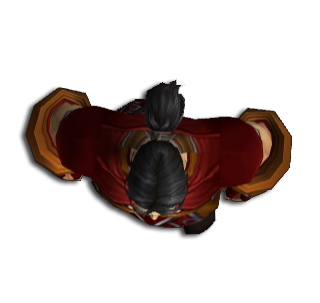
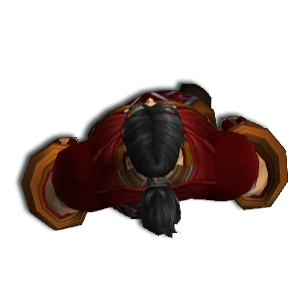
* Quaternion between vector, handled invalid case * Added Quaternion rotate towards another Quaternion * Smoother camera transition * Smooth player turning

Changed region(s): [[0.0297, 0.2376, 0.9505, 0.802]]

diff --git a/src/main.cpp b/src/main.cpp
@@ -418,6 +418,8 @@ struct Editor {
 static Editor editor;
 
 Texture2d_Handle debug_load_texture(const char * filepath) {
+	stbi_set_flip_vertically_on_load(1);
+
 	int w, h, n;
 	unsigned char *pixels = stbi_load(filepath, &w, &h, &n, 4);
 	auto texture = gfx_create_texture2d(u32(w), u32(h), u32(n), Data_Format_RGBA8_UNORM_SRGB, (const u8 **)&pixels, Buffer_Usage_IMMUTABLE, 1);
@@ -427,14 +429,15 @@ Texture2d_Handle debug_load_texture(const char * filepath) {
 
 struct Player {
 	Vec3 position = vec3(0, 0, 1);
-	Vec3 direction = vec3(0, -1, 0);
-	Vec3 direction_target = direction;
+	Quat face_direction = quat_identity();
+	Quat face_direction_target = face_direction;
 
 	r32 movement_force = 500;
 
 	r32 mass = 50;
 	r32 drag = 3;
 	r32 friction_coefficient = 0.5f;
+	r32 turn_velocity = 2.5f;
 	Vec3 velocity = vec3(0);
 	Vec3 force = vec3(0);
 };
@@ -471,11 +474,12 @@ void editor_update(Audio_Mixer *mixer, Player *player) {
 
 	ImGui::Text("Player");
 	ImGui::DragFloat3("Position: (%.3f, %.3f, %.3f)", player->position.m);
-	ImGui::Text("Direction: (%.3f, %.3f, %.3f)", player->direction.x, player->direction.y, player->direction.z);
+	ImGui::Text("Face Direction: (%.3f, %.3f, %.3f)", player->face_direction.x, player->face_direction.y, player->face_direction.z);
 	ImGui::DragFloat("Mass: %.3f", &player->mass, 0.1f);
 	ImGui::DragFloat("Friction: %.3f", &player->friction_coefficient, 0.01f, 0.0f, 1.0f);
 	ImGui::DragFloat("Drag: %.3f", &player->drag, 0.01f);
 	ImGui::DragFloat("Movement Force: %.3f", &player->movement_force, 0.1f);
+	ImGui::DragFloat("Turn Speed: %.3f", &player->turn_velocity, 0.01f);
 	ImGui::Text("Velocity: (%.3f, %.3f, %.3f)", player->velocity.x, player->velocity.y, player->velocity.z);
 	ImGui::Text("Force: (%.3f, %.3f, %.3f)", player->force.x, player->force.y, player->force.z);
 
@@ -673,9 +677,7 @@ int system_main() {
 		Vec2 movement_direction = vec2_normalize_check(vec2(controller.x, controller.y));
 		r32 movement_magnitude = vec2_length(movement_direction);
 		if (movement_magnitude) {
-			player.direction_target = vec3(movement_direction, 0);
-			//r32 angle = vec3_signed_angle_between(player.direction, vec3(movement_direction, 0), vec3(0, 0, 1));
-			//player.target_direction = vec3_normalize(quat_rotate(quat_angle_axis(vec3(0, 0, 1), angle), player.direction));
+			player.face_direction_target = quat_between(vec3(0, 1, 0), vec3(movement_direction, 0));
 		}
 
 		const float gravity = 10.f;
@@ -686,11 +688,10 @@ int system_main() {
 
 			if (state == Time_State_RESUME) {
 
-				r32 angle = vec3_signed_angle_between(player.direction, player.direction_target, vec3(0, 0, 1));
-				player.direction = vec3_normalize(quat_rotate(quat_angle_axis(vec3(0, 0, 1), angle), player.direction));
+				player.face_direction = rotate_toward(player.face_direction, player.face_direction_target, player.turn_velocity * dt);
 
 				float effective_friction_coeff = ground_friction_coefficient * player.friction_coefficient;
-				player.force.xy += (player.movement_force * movement_magnitude) * player.direction.xy;
+				player.force += (player.movement_force * movement_magnitude) * vec3(movement_direction, 0);
 
 				r32 frictional_force_mag = effective_friction_coeff * gravity * player.mass;
 				r32 force_mag = vec3_length(player.force);
@@ -713,6 +714,10 @@ int system_main() {
 				player.velocity += dt * acceleration;
 				player.velocity *= powf(0.5f, player.drag * dt);
 				player.position += dt * player.velocity;
+
+				Vec2 camera_player_offset = vec2(-0.5f);
+				camera.position.xy = lerp(camera.position.xy, player.position.xy - camera_player_offset, 1.0f - powf(1.0f - 0.9f, dt));
+				camera.distance = lerp(camera.distance, camera.distance_target, 1.0f - powf(1.0f - 0.9f, dt));
 
 #if 0
 
@@ -838,10 +843,6 @@ int system_main() {
 
 		ImGui_UpdateFrame(real_dt);
 
-		Vec2 camera_player_offset = vec2(-0.5f);
-		camera.position.xy = lerp(camera.position.xy, player.position.xy - camera_player_offset, 1.0f - powf(1.0f - 0.9f, game_dt));
-		camera.distance = lerp(camera.distance, camera.distance_target, 1.0f - powf(1.0f - 0.9f, game_dt));
-
 		r32 camera_zoom = 1.0f / powf(2.0f, camera.distance);
 
 		r32 thickness = 8.0f / (TOTAL_GRID_HORIZONTAL * TOTAL_GRID_VERTICAL);
@@ -855,16 +856,19 @@ int system_main() {
 		im_unbind_texture();
 		for (r32 x = -5; x < 5; ++x) {
 			for (r32 y = -5; y < 5; ++y) {
-				im_rect_centered_outline2d(vec3(x, y, 1), vec2(1), vec4(0, 0.3f, 0), 1.5f * thickness);
+				im_rect_centered(vec3(x, y, 1), vec2(1.1f), vec4(0, 0.3f, 0));
 				im_rect_centered(vec3(x, y, 1), vec2(1), vec4(0.1f, 0.9f, 0.2f));
 			}
 		}
 
-		im_bind_texture(player_sprite);
-		im_rect_centered_rotated(player.position, vec2(1), vec3_signed_angle_between(vec3(0, 1, 0), player.direction, vec3(0, 0, 1)), vec4(1));
-
-		im_unbind_texture();
 		im_rect_centered_outline2d(player.position, vec2(1), vec4(1, 1, 0), thickness);
+
+		r32 angle;
+		Vec3 axis;
+		quat_get_angle_axis(player.face_direction, &angle, &axis);
+
+		im_bind_texture(player_sprite);
+		im_rect_centered_rotated(player.position, vec2(1), axis.z * angle, vec4(1));
 
 		im_end();
 

diff --git a/src/lin_maths.cpp b/src/lin_maths.cpp
@@ -1050,7 +1050,12 @@ Vec3 quat_get_euler_angles(Quat q) {
 Quat quat_between(Vec3 from, Vec3 to) {
 	Quat q;
 	q.v4.w   = 1.0f + vec3_dot(from, to);
-	q.v4.xyz = vec3_cross(from, to);
+
+	if (q.real) {
+		q.v4.xyz = vec3_cross(from, to);
+	} else {
+		q.v4.xyz = fabsf(from.x) > fabsf(from.z) ? vec3(-from.y, from.x, 0.f) : vec3(0.f, -from.z, from.y);
+	}
 
 	return quat_normalize(q);
 }
@@ -1281,7 +1286,7 @@ Vec3 slerp(Vec3 from, Vec3 to, r32 t) {
 }
 
 Quat slerp(Quat from, Quat to, r32 t) {
-	r32 dot = quat_dot(from, to);
+	r32 dot = clamp(-1.0f, 1.0f, quat_dot(from, to));
 
 	// use shorter path
 	if (dot < 0.0f) {
@@ -1389,12 +1394,6 @@ Vec4 move_toward(Vec4 from, Vec4 to, r32 factor) {
 	return vec4_clamp(from, to, from + factor * dir);
 }
 
-Quat move_toward(Quat from, Quat to, r32 factor) {
-	Quat res;
-	res.v4 = move_toward(from.v4, to.v4, factor);
-	return res;
-}
-
 //
 //
 //
@@ -1408,6 +1407,38 @@ Vec2 rotate_around(Vec2 point, Vec2 center, r32 angle) {
 	res.y  = p.x * s + p.y * c;
 	res += center;
 	return res;
+}
+
+Quat rotate_toward(Quat from, Quat to, r32 max_angle) {
+	if (max_angle) {
+		r32 dot = clamp(-1.0f, 1.0f, quat_dot(from, to));
+
+		// use shorter path
+		if (dot < 0.0f) {
+			to  = -to;
+			dot = -dot;
+		}
+
+		r32 theta_0 = acosf(dot);
+
+		if (theta_0 < max_angle) {
+			return to;
+		}
+
+		r32 t = max_angle / theta_0;
+
+		theta_0			= max_angle;
+		r32 theta       = theta_0 * t;
+		r32 sin_theta   = sinf(theta);
+		r32 sin_theta_0 = sinf(theta_0);
+
+		r32 s0 = cosf(theta) - dot * sin_theta / sin_theta_0;
+		r32 s1 = sin_theta / sin_theta_0;
+
+		return (s0 * from) + (s1 * to);
+	} else {
+		return from;
+	}
 }
 
 //

diff --git a/src/lin_maths.h b/src/lin_maths.h
@@ -639,7 +639,6 @@ Type slerp(Type from, Type to, r32 angle, r32 t) {
 Mat4 lerp(Mat4 &from, Mat4 &to, r32 t);
 Vec2 slerp(Vec2 from, Vec2 to, r32 t);
 Vec3 slerp(Vec3 from, Vec3 to, r32 t);
-Vec4 slerp(Vec4 from, Vec4 to, r32 t);
 Quat slerp(Quat from, Quat to, r32 t);
 
 r32  step(r32 edge, r32 val);
@@ -663,13 +662,13 @@ r32  move_toward(r32 from, r32 to, r32 factor);
 Vec2 move_toward(Vec2 from, Vec2 to, r32 factor);
 Vec3 move_toward(Vec3 from, Vec3 to, r32 factor);
 Vec4 move_toward(Vec4 from, Vec4 to, r32 factor);
-Quat move_toward(Quat from, Quat to, r32 factor);
 
 //
 //
 //
 
 Vec2 rotate_around(Vec2 point, Vec2 center, r32 angle);
+Quat rotate_toward(Quat from, Quat to, r32 max_angle);
 
 //
 //
